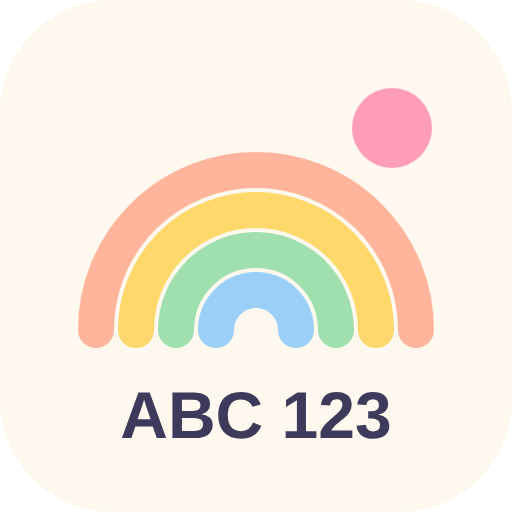
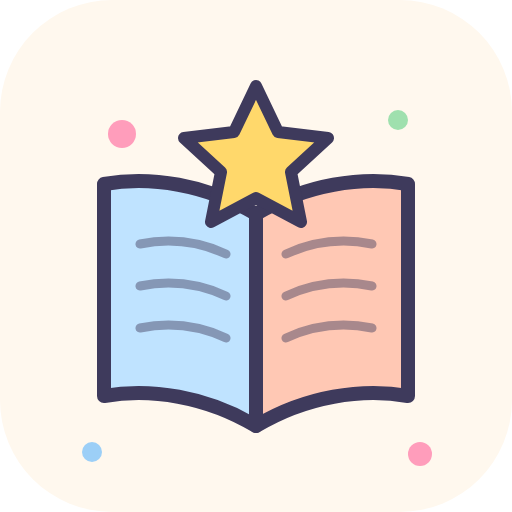
Buang imej pelangi; ikon baharu buku dan bintang
- Ikon app, logo log masuk dan gambar preview WhatsApp kini guna
  ikon buku terbuka dengan bintang, tanpa pelangi
- Tajuk preview dan README guna 📚
- Tiga soalan yang guna emoji pelangi diganti dengan soalan lain

Claude-Session: https://claude.ai/code/session_01JH4JT2dDNTPRenS5n9r5YR

diff --git a/index.html b/index.html
@@ -8,10 +8,10 @@
 <meta name="author" content="FaridAssamani">
 <meta property="og:type" content="website">
 <meta property="og:site_name" content="Cerdik Ceria">
-<meta property="og:title" content="Cerdik Ceria — Kuiz seronok sekolah rendah 🌈">
+<meta property="og:title" content="Cerdik Ceria — Kuiz seronok sekolah rendah 📚">
 <meta property="og:description" content="Tahun 1–6 ikut bab KSSR: BM, English, Matematik, Sains, Pendidikan Islam, Bahasa Arab dan Sejarah. Developed by FaridAssamani.">
 <meta property="og:url" content="https://farawyadal.github.io/cerdikceria/">
-<meta property="og:image" content="https://farawyadal.github.io/cerdikceria/og-image.png">
+<meta property="og:image" content="https://farawyadal.github.io/cerdikceria/og-image.png?v=2">
 <meta property="og:image:width" content="1200">
 <meta property="og:image:height" content="630">
 <meta property="og:locale" content="ms_MY">
@@ -221,7 +221,7 @@ button{font:inherit;color:inherit;border:0;background:none;cursor:pointer}
   <section id="s-login" class="screen">
     <div class="login-top"><button class="chip inst" hidden title="Pasang app">⬇ App</button></div>
     <div class="hello">
-      <div style="font-size:54px">🌈</div>
+      <img src="icon-192.png" alt="" width="84" height="84" style="border-radius:22px;box-shadow:0 6px 18px rgba(62,58,92,.10)">
       <h1>Cerdik <span style="color:var(--accent)">Ceria</span></h1>
       <p>Siapa nak belajar hari ini?</p>
     </div>
@@ -379,7 +379,7 @@ window.MK = (() => {
 (() => {
 "use strict";
 const $ = s => document.querySelector(s);
-const VER = "5";
+const VER = "6";
 const KEY = "cerdikceria.v1";   // unik supaya tak bercampur dengan app lain di github.io yang sama
 const AVATARS = ["🦊","🐼","🐯","🐰","🐸","🦄","🐨","🐧","🐱","🐶","🦁","🐵","🐙","🦋"];
 const SUBJECTS = [

diff --git a/soalan/tahun1.js b/soalan/tahun1.js
@@ -463,7 +463,7 @@ sains: [
     ["🧊|Kita tahu ais itu sejuk menggunakan…", "kulit", "hidung", "telinga", "mata"],
     ["🌹|Kita dapat menghidu bau bunga menggunakan…", "hidung", "lidah", "telinga", "mata"],
     ["🔔|Bunyi loceng dapat dikesan oleh…", "telinga", "mata", "lidah", "hidung"],
-    ["🌈|Kita melihat warna pelangi menggunakan…", "mata", "telinga", "hidung", "kulit"],
+    ["🎨|Kita melihat warna-warni lukisan menggunakan…", "mata", "telinga", "hidung", "kulit"],
     ["Cara menjaga mata ialah…", "tidak menonton TV terlalu dekat", "menggosok mata dengan kuat", "merenung matahari", "membaca dalam gelap"],
     ["Cara menjaga telinga ialah…", "tidak mendengar bunyi yang terlalu kuat", "memasukkan pensel ke dalam telinga", "menjerit di telinga kawan", "tidak membersihkannya"],
     ["Orang yang tidak dapat melihat membaca menggunakan…", "tulisan Braille", "cermin mata hitam", "radio", "teropong"]

diff --git a/soalan/tahun4.js b/soalan/tahun4.js
@@ -220,7 +220,7 @@ sains: [
     ["Cahaya membias apabila bergerak dari udara ke…", "air", "udara", "vakum", "cermin"],
     ["Bayang-bayang terbentuk kerana cahaya…", "bergerak lurus dan dihalang", "membengkok", "dipantul", "berwarna"],
     ["Permukaan yang paling baik memantulkan cahaya ialah…", "cermin", "kain hitam", "kayu kasar", "kertas pasir"],
-    ["🌈|Pelangi terbentuk apabila cahaya matahari melalui…", "titisan air", "batu", "kayu", "plastik legap"],
+    ["🔍|Kanta pembesar membesarkan imej objek melalui…", "pembiasan cahaya", "pantulan bunyi", "magnet", "elektrik"],
     ["Cermin sisi kereta membantu pemandu melihat ke belakang melalui…", "pantulan cahaya", "pembiasan", "bunyi", "magnet"]
   ]},
   { t: "Bunyi", q: [

diff --git a/soalan/tahun2.js b/soalan/tahun2.js
@@ -114,7 +114,7 @@ bm: [
     ["🥥|Ini ialah…", "kelapa", "durian", "manggis", "rambutan"],
     ["🚑|Ini ialah…", "ambulans", "bas", "lori", "teksi"],
     ["⛵|Ini ialah…", "perahu layar", "kapal terbang", "kereta api", "basikal"],
-    ["🌈|Ini ialah…", "pelangi", "awan", "kilat", "bintang"],
+    ["🌋|Ini ialah…", "gunung berapi", "awan", "kilat", "bintang"],
     ["Ejaan yang betul ialah…", "rambutan", "rambotan", "rembutan", "rambutaan"],
     ["Ejaan yang betul ialah…", "kereta api", "keretapi", "kreta api", "kereta-api"],
     ["Ejaan yang betul ialah…", "perpustakaan", "perpustakan", "pepustakaan", "perpustakaam"],

diff --git a/sw.js b/sw.js
@@ -1,7 +1,7 @@
 // Cerdik Ceria — service worker
 // Network-first: fail baharu terus dipakai bila ada internet; salinan simpanan dipakai bila luar talian.
 // Hanya cache milik app ini (awalan "cerdikceria-") yang disentuh, supaya tak ganggu app lain di github.io yang sama.
-const CACHE = "cerdikceria-v6";
+const CACHE = "cerdikceria-v7";
 const SHELL = ["./", "index.html", "manifest.webmanifest", "icon-192.png", "icon-512.png", "soalan/tahun1.js"];
 
 self.addEventListener("install", e => {

diff --git a/README.md b/README.md
@@ -1,4 +1,4 @@
-# Cerdik Ceria 🌈
+# Cerdik Ceria 📚
 
 Kuiz seronok untuk murid sekolah rendah (Tahun 1–6): Bahasa Melayu, English, Matematik, Sains, Pendidikan Islam, Bahasa Arab dan Sejarah (Tahun 4–6).
 
